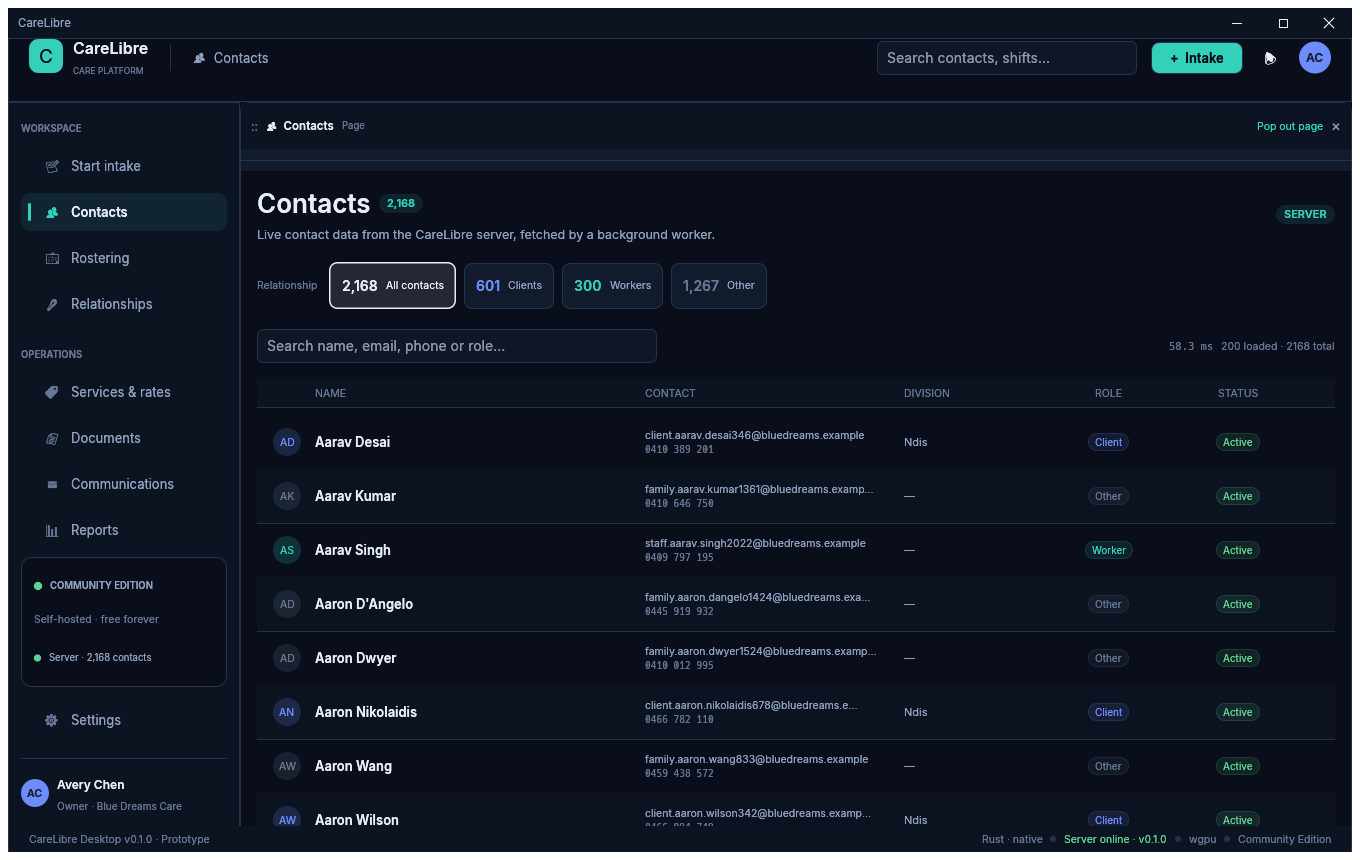
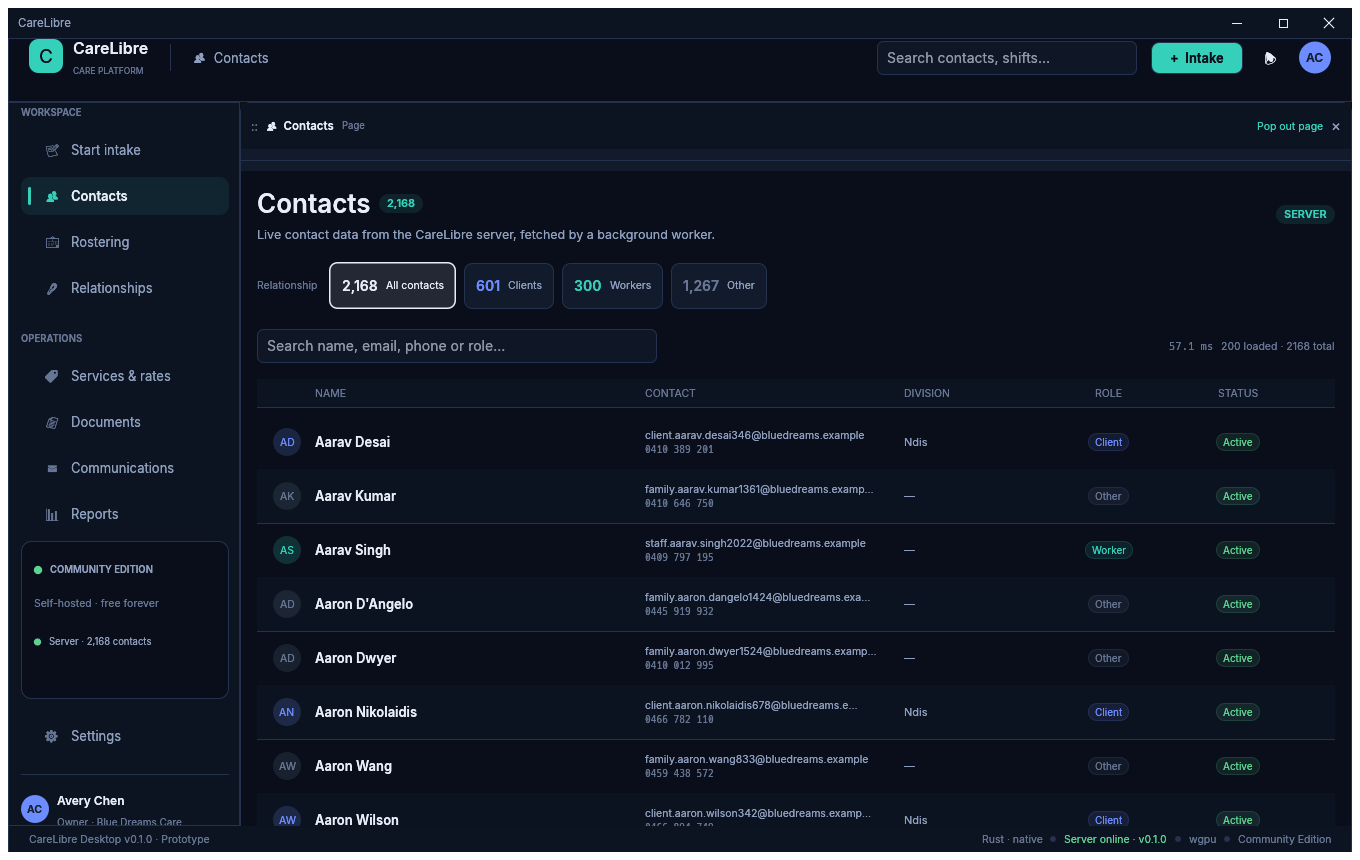
Refresh screenshots for the centred menu and non-scrolling workspace
Adds a launch screenshot, regenerates the live demo gallery and thumbnails, documents the --empty screenshot option, and captures the updated docked sidebar and responsive rostering timeline.

diff --git a/examples/screenshot.rs b/examples/screenshot.rs
@@ -43,6 +43,7 @@ fn main() {
         _ => Page::Contacts,
     };
     let live = args.iter().any(|arg| arg == "--live");
+    let empty = args.iter().any(|arg| arg == "--empty");
     let perf = args.iter().any(|arg| arg == "--perf");
     let contact = args.iter().any(|arg| arg == "--contact");
     let client_side = args.iter().any(|arg| arg == "--client");
@@ -82,7 +83,9 @@ fn main() {
     if let Some(server) = server {
         app.use_server(server).expect("valid --server URL");
     }
-    app.set_page(page);
+    if !empty {
+        app.set_page(page);
+    }
     if let Some(filter) = contact_filter {
         app.set_contact_filter(filter);
     }

diff --git a/README.md b/README.md
@@ -17,6 +17,9 @@ open-source care management platform for disability and aged care providers.
 
 <table>
   <tr>
+    <td align="center" colspan="3"><a href="docs/launch.png"><img src="docs/thumbs/launch.png" alt="CareLibre centred launch menu"></a><br><sub><b>Launch</b> — a centred menu until the first column opens</sub></td>
+  </tr>
+  <tr>
     <td align="center"><a href="docs/contacts.png"><img src="docs/thumbs/contacts.png" alt="CareLibre contacts workspace"></a><br><sub><b>Contacts</b> — live directory with role filters and search</sub></td>
     <td align="center"><a href="docs/contact-editor.png"><img src="docs/thumbs/contact-editor.png" alt="CareLibre contact record with linked relationships"></a><br><sub><b>Records</b> — docked, with linked relationships</sub></td>
     <td align="center"><a href="docs/funding.png"><img src="docs/thumbs/funding.png" alt="CareLibre funding packages and service agreements"></a><br><sub><b>Funding</b> — packages, quotes and agreements</sub></td>
@@ -278,6 +281,7 @@ cargo fmt                  # formatting
 The UI can be rendered without a display, which is handy for design review and CI:
 
 ```sh
+cargo run --example screenshot -- docs/launch.png --empty
 cargo run --example screenshot -- docs/contacts.png
 cargo run --example screenshot -- docs/rostering.png rostering
 cargo run --example screenshot -- docs/contacts.png contacts --live \
